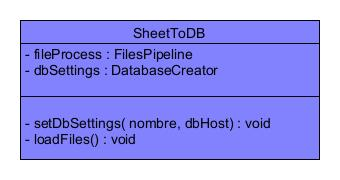
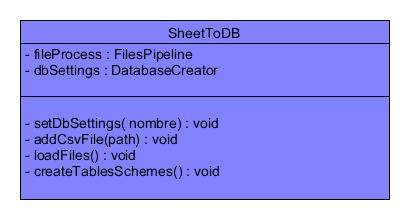
Analisis de CSV funcionando
Revisar los cambios, se crean los metodos necesarios para poder cargar los esquemas de las tablas al objeto de la clase DatabaseCreator.

todo: Implementacion de conexion con obj Dbserver y connectores correspondientes para Mysql y Sqlite

Changed region(s): [[0.0294, 0.0833, 0.9706, 0.9167]]

diff --git a/SheetToDb/main.py b/SheetToDb/main.py
@@ -38,18 +38,40 @@ def main():
 
 
         elif(userInput == "3"):
+
+            # Pruebas de secuencia de ejecucion
+
+            # 1. El usuario ingresa el o los archivos a procesar
             filesToProccess = input("Ingrese las rutas de los archivos a procesar seguidos de ',' entre ellos")
+
+            # 2. El listado de PATHS se procesa y se deja la o las rutas de los archivos en una lista
             filesToProccessList = DataType.DataType.separateStrWithComma(filesToProccess)
 
-
+            # 3. Se recorre la lista de rutas, inicializando los csv en la lista de objetos de tipo cvsHandler contenida en FilesPipeline
             for file in filesToProccessList:
                 sheetToDb.addCsvFile(file)
 
+            # 4. Se carga la info de los csv a memoria, guardandose en el atributo readedData de cada objeto csvHandler
             sheetToDb.loadFiles()
-            #print(DataType.DataType.extractFilenameFromPath(filesToProccess))
-            #sheetToDb.addCsvFile(filesToProccess)
 
-        print(filesToProccess)
+            '''
+             Nota : Aca ya tendriamos inicializado completamente el obj FilePipeline de la clase SheetToDB (proceso principal)
+             Ahora necesitamos inicializar el DatabaseCreator, el constructor de este objeto solo requiere el nombre de la BD a crear
+             sin embargo, necesita inicializar otros objetos (atributos internos) antes de seguir (DbServer, TableScheme, DbConnectionManager) 
+            '''
+
+            # 5. Se pide al usuario el nombre de la BD a crear y se asigna
+            tmpName = input("\nIngrese el nombre de la BD a crear: ")
+            sheetToDb.setDbSettings(tmpName)
+
+            # n. Pedir los datos de conexion a la bd y hacer las pruebas de que funcionen #todo implementar
+
+
+            # 6. Agregar esquemas de tablas al DatabaseCreator
+            # Nota: usar el atributo del obj csvHanlder "isReaded" para saber si ya se cargo en memoria el mismo
+            sheetToDb.createTablesSchemes()
+            print(sheetToDb)
+
 
        # finPruebas
 

diff --git a/SheetToDb/SheetToDB.py b/SheetToDb/SheetToDB.py
@@ -1,7 +1,7 @@
 from FileProcessing import FilesPipeline
 from DBConfig import DbServer
 from DBConfig import DatabaseCreator
-
+from FileProcessing import DataType
 
 
 class SheetToDB:
@@ -10,7 +10,7 @@ class SheetToDB:
     def __init__(self):
 
         self.fileProcess = FilesPipeline.FilesPipeline()
-        self.dbSettings = None
+        self.dbSettings = DatabaseCreator.DatabaseCreator("SheetToDB_TEMP")
 
 
     def setDbSettings(self, dbName):
@@ -26,3 +26,16 @@ class SheetToDB:
     def loadFiles(self):
         self.fileProcess.readCsvFiles()
         self.fileProcess.readExcFiles()
+
+    def createTablesSchemes(self):
+        # todo: verificar que hayan elementos cargados y con datos
+
+        for cvs in self.fileProcess.csvFilesToProcess:
+            tmpName = DataType.DataType.nameWithoutExtension(cvs.filename)
+            if(cvs.isReaded):
+                tmpAttrib = DataType.DataType.getAttributesDataTypes(cvs.getFirstLine())
+                tmpData = cvs.readedData
+                self.dbSettings.addTableFromScratch(tmpName, tmpAttrib, tmpData)
+            else:
+                print("ERROR: No se han leido los datos aun")
+        #self.dbSettings.addTableFromScratch()

diff --git a/SheetToDb/FileProcessing/DataType.py b/SheetToDb/FileProcessing/DataType.py
@@ -1,12 +1,26 @@
 from dateutil.parser import parse
 class DataType:
 
+    @staticmethod
+    #Recibe nombre de archivo con extension y revuelve retirando lo que este del ultimo punto en adelante (la extension)
+    # usar para obtener el nombre de la tabla a crear, todo: considerar nombres con espacios
+    def nameWithoutExtension(name: str):
+        i = 0
+        lastDot = -1
+        while (i < len(name)):
+            if (name[i] == "."):
+                lastDot = i
+            i += 1
+
+        return name[0:lastDot]
+
     #Todo: Metodo para estandarizar la fecha a formato ISO 8601. (YYYY-MM-DD)
     @staticmethod
     def dateToISOStandard(date:str):
         pass
 
     @staticmethod
+    # Metodo para separar cadenas de texto separadas por comas, las devuelve en una lista
     def separateStrWithComma(string):
         list = []
 
@@ -44,6 +58,7 @@ class DataType:
 
 
     @staticmethod
+    # Devuelve verdadero si el diccionario se encuentra con mas espacios vacios que los dados en el threshold
     def isEmptyDict(dic, threshold:int):
         result = True
         nonEmptyValCount = 0

diff --git a/SheetToDb/DBConfig/DatabaseCreator.py b/SheetToDb/DBConfig/DatabaseCreator.py
@@ -15,6 +15,10 @@ class DatabaseCreator:
     def setSqlite(self, lite: bool):
         self.sqlite = lite
 
+    # Crea una tabla desde zero y la agrega a la lista de tablas del objeto actual
+    def addTableFromScratch(self, tableName: str, tableAttrib, tableData):
+        tmpObj = TableScheme.TableScheme(tableName, tableAttrib, tableData)
+        self.addTable(tmpObj)
     def addTable(self, table: TableScheme.TableScheme):
         self.dbTables.append(table)
 

diff --git a/SheetToDb/DBConfig/TableScheme.py b/SheetToDb/DBConfig/TableScheme.py
@@ -1,10 +1,9 @@
 class TableScheme:
 
-    tableAttributes = {}
-    tableData = []
-
-    def __init__(self, tableName):
+    def __init__(self, tableName, tableAttributes, tableData ):
         self.tableName = tableName
+        self.tableAttributes = tableAttributes
+        self.tableData = tableData
 
     def setTableAttributes(self, attributes):
         self.tableAttributes = attributes
